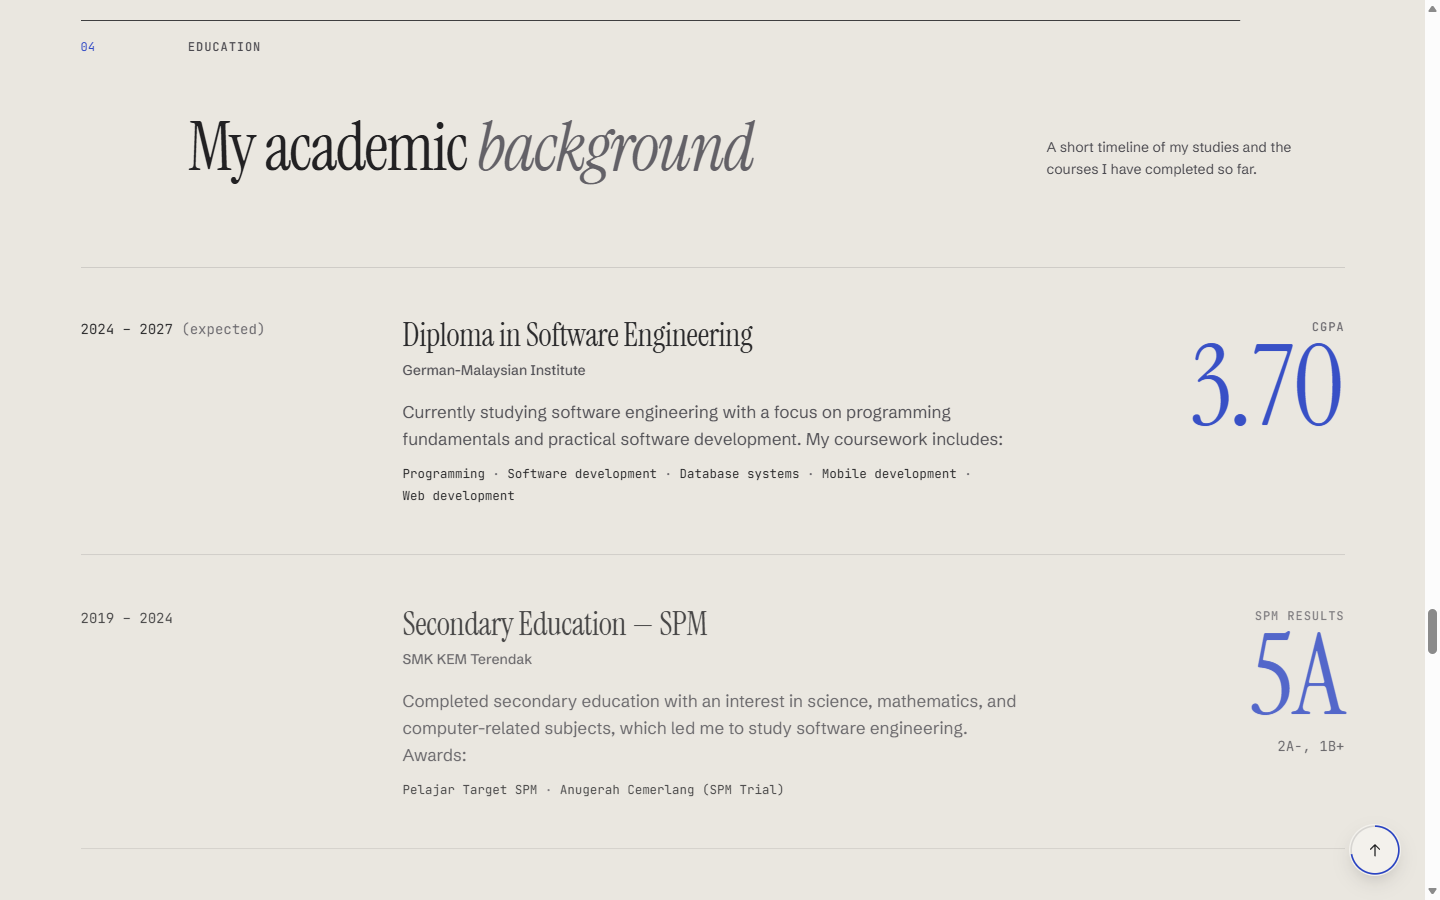
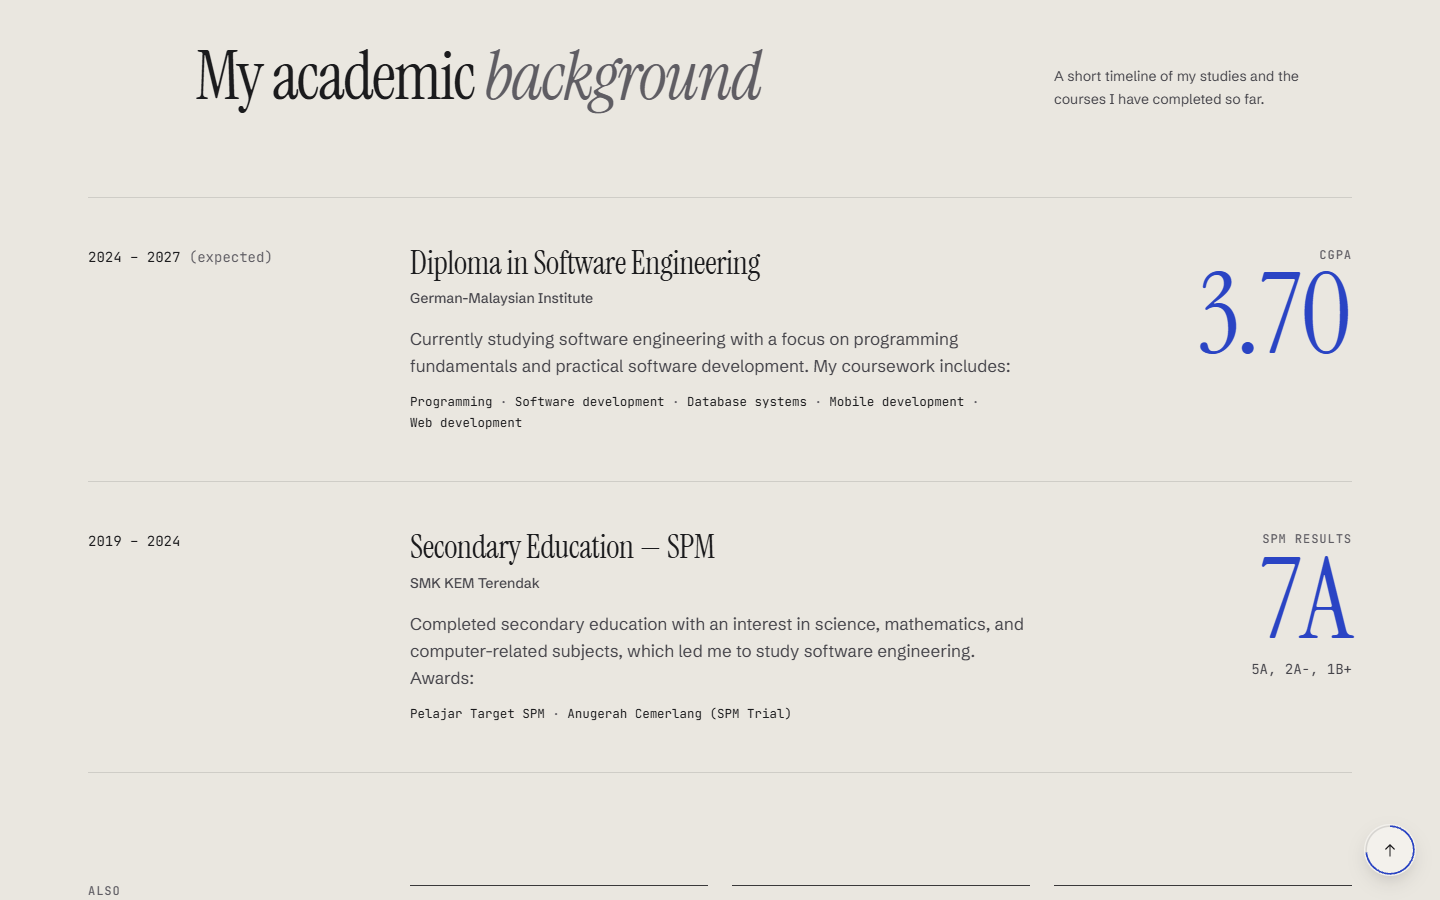
Show SPM total as 7A with grade breakdown

diff --git a/src/data/profile.ts b/src/data/profile.ts
@@ -114,7 +114,7 @@ export const education: EducationEntry[] = [
     place: 'SMK KEM Terendak',
     text: 'Completed secondary education with an interest in science, mathematics, and computer-related subjects, which led me to study software engineering. Awards:',
     list: ['Pelajar Target SPM', 'Anugerah Cemerlang (SPM Trial)'],
-    badge: { label: 'SPM results', value: '5A', note: '2A−, 1B+' },
+    badge: { label: 'SPM results', value: '7A', note: '5A, 2A−, 1B+' },
   },
 ];
 
